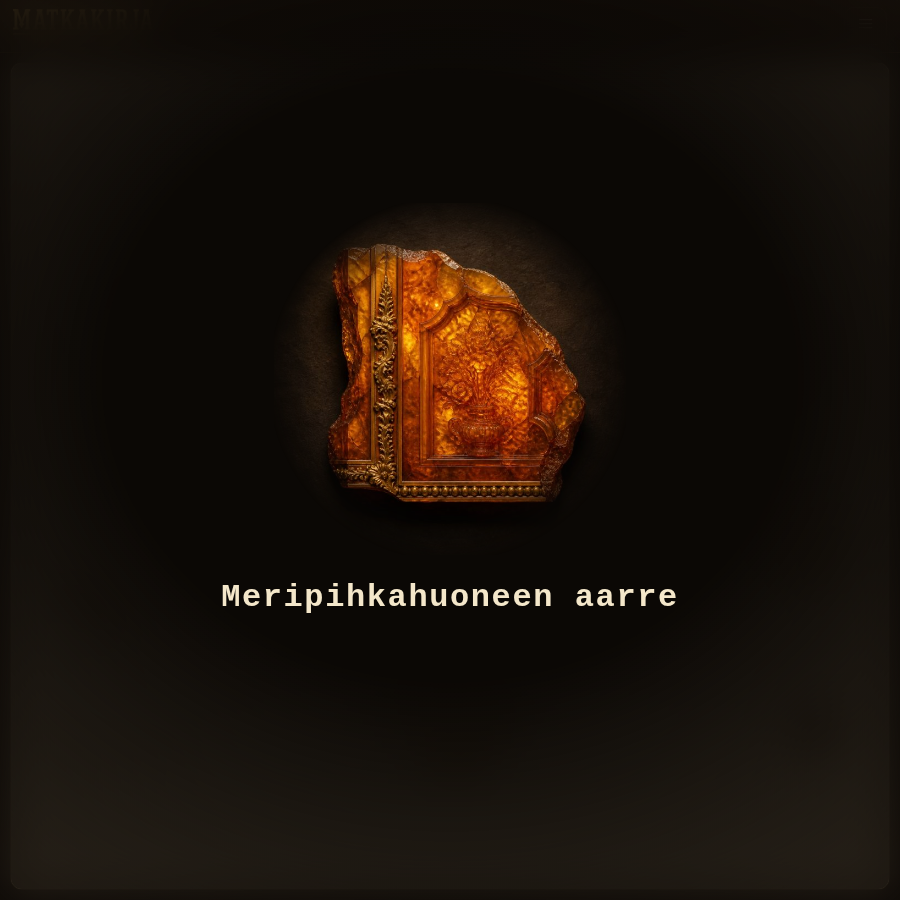
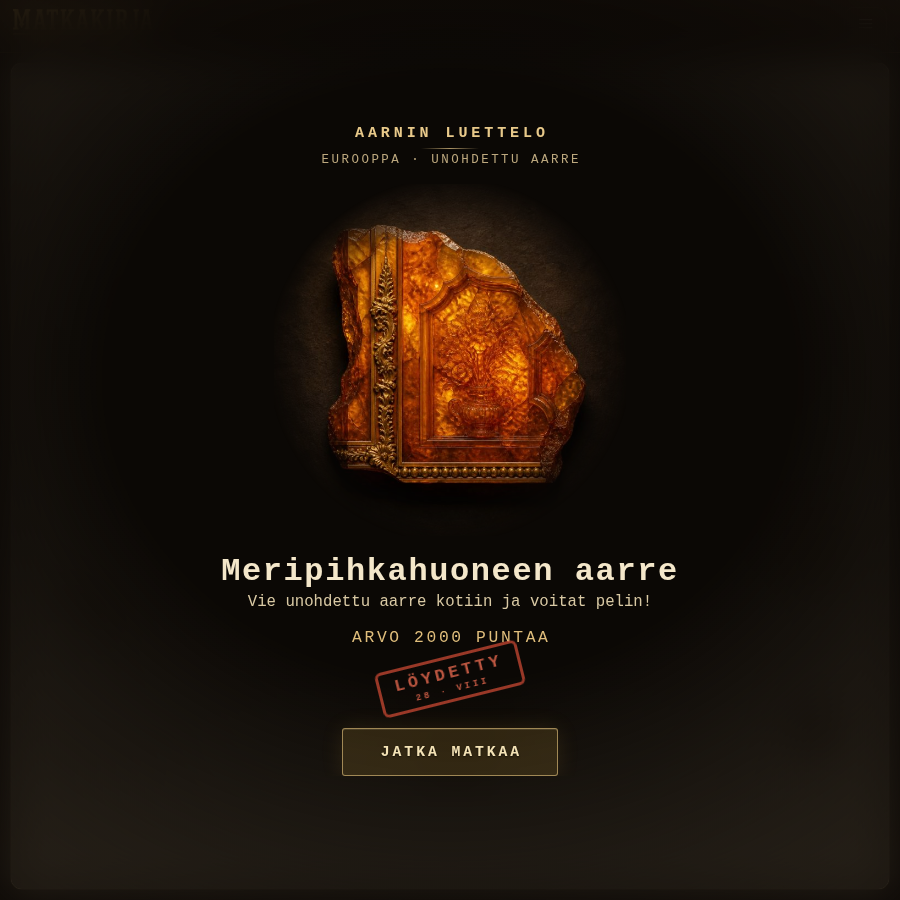
v1301: Tekstit tummaan aarrepaljastukseen
Omistajan tilaus 28.8.2026 ilta: "laita kaikki tekstit mukaan tuohon
aarteen esikatseluun". v1300 siirsi paaaarteen (star) paljastuksen
diplomista tummaan malliin, mutta Aarnin luettelon tekstit jaivat
samalla pois kortilta.

Tekstit palaavat samasta lisat-oliosta kuin diplomilla — mutta ULKOASU
on tumman mallin oma: kullansavyinen versaali suoraan mustan paalle, ei
pergamenttiarkkia, ei kaiverruskehysta eika vaalenevaa pohjaa, jotta
kuvan tumma tausta jatkuu saumatta overlayn mustaan (omistajan linjaus
samana iltana).

- js/ui.js playTokenReveal: lisat rakennetaan nyt ehdolla type ===
  'star' (ennen malli === 'diplomi', joka ei enaa koskaan toteutunut).
  Sisalto ennallaan: otsake "Aarnin luettelo", alaotsake
  "MANNER · UNOHDETTU AARRE", arvo STAR_PRIZE-vakiosta ja Loydetty-leima
  roomalaisin kuukausin. Kirkastuminen (overlay .kirkas) rajattu
  diplomiin — tumma kortti jaa mustaan.
- js/ui.js rakennaPaljastus: tumman mallin omat luokat .reveal-tunnus
  (otsake + alaotsake kuvan ylle) ja .reveal-loyto (arvorivi + leima
  tekstien alle). Diplomin absoluuttisesti kehyskuvaan ladotut
  .reveal-otsake / .reveal-alanauha jaavat koskematta.
- css/styles.css: tumman mallin tekstityylit. Leiman lyontianimaatio
  (leima-lyonti) sailyy; .reveal-leima.tumma vaihtaa sen gridin riviksi
  ja nostaa punaisen kirkkaammaksi mustaa vasten.
- tools/savukkeet/savuke-aarrekuva.mjs: diplomivartiot vaihtuivat tumman
  mallin tekstivartioiksi (otsake, alaotsake, arvo, leima ja niiden
[…]

diff --git a/js/ui.js b/js/ui.js
@@ -15098,13 +15098,22 @@ export class UI {
    *    kaiverruskehyksineen, kartussissa otsake, alanauhassa arvo ja
    *    punainen LÖYDETTY-leima. Aarnin luettelossa ovat kaanonin
    *    mukaan vain pääaarteet, joten paikallisaarre ei koskaan saa
-   *    diplomia.
+   *    diplomia. Malli jäi koodiin varalle (ks. playTokenReveal).
+   *
+   * LUETTELON TEKSTIT KUULUVAT MYÖS TUMMAAN MALLIIN (omistajan tilaus
+   * 28.8.2026 ilta: *"laita kaikki tekstit mukaan tuohon aarteen
+   * esikatseluun"*). Kun pääaarre siirtyi diplomista tummaan malliin,
+   * otsake, manner, arvo ja leima jäivät pois. Ne palaavat samasta
+   * `lisat`-oliosta, mutta tumman mallin omalla ulkoasulla:
+   * kullansävyinen versaali suoraan mustan päälle, EI pergamenttiarkkia
+   * eikä kehystä — kuvan tumma tausta jatkuu saumatta overlayn mustaan.
    *
    * @param {string|null} kuva kuvan polku (assets/…) tai null
    * @param {string} alt kuvan tekstivastine
    * @param {string} [malli] 'tumma' | 'paikallis' | 'diplomi'
    * @param {{otsake?: string, alaotsake?: string, alanauha?: string,
-   *   leima?: string, leimaPvm?: string}} [lisat] diplomin tekstit
+   *   leima?: string, leimaPvm?: string}} [lisat] luettelon tekstit
+   *   (diplomi ja tumman mallin pääaarre)
    * @returns {{overlay: HTMLElement, scene: HTMLElement, caption: HTMLElement,
    *   kuvaEl: HTMLImageElement|null, jatka: HTMLElement,
    *   pohja: HTMLElement, leima: HTMLElement|null}}
@@ -15156,6 +15165,25 @@ export class UI {
       pohja.appendChild(html('hr', 'reveal-jakoviiva'));
       scene.appendChild(pohja);
     }
+    /*
+     * LUETTELON NIMIÖ KUVAN YLLE (tumma malli). Diplomin `.reveal-otsake`
+     * ja `.reveal-alaotsake` on ladottu absoluuttisesti kehyskuvan
+     * kartussiin, joten tumma malli ei voi käyttää niitä: se saa omat
+     * luokkansa, jotka ovat scene-gridin tavallisia rivejä. Merkkiluokka
+     * `.luettelo` kertoo tyylille, että kortilla on nyt viisi riviä
+     * kolmen sijaan — rivivälit tiivistyvät sen mukaan.
+     */
+    if (malli === 'tumma' && (lisat.otsake || lisat.alaotsake)) {
+      scene.classList.add('luettelo');
+      const tunnus = html('div', 'reveal-tunnus');
+      if (lisat.otsake) {
+        tunnus.appendChild(html('div', 'reveal-tunnus-otsake', lisat.otsake));
+      }
+      if (lisat.alaotsake) {
+        tunnus.appendChild(html('div', 'reveal-tunnus-alaotsake', lisat.alaotsake));
+      }
+      scene.appendChild(tunnus);
+    }
     if (kuvaEl) pohja.appendChild(kuvaEl);
     const caption = html('div', 'reveal-caption');
     pohja.appendChild(caption);
@@ -15168,6 +15196,22 @@ export class UI {
         leima.appendChild(html('small', '', lisat.leimaPvm ?? ''));
         pohja.appendChild(leima);
       }
+    } else if (malli === 'tumma' && (lisat.alanauha || lisat.leima)) {
+      /*
+       * ARVO JA LEIMA TEKSTIEN ALLE omana jalkanaan. Jalka on caption-
+       * lohkon sisarus, joten se tulee esiin samalla kahvalla kuin
+       * tekstit (`.reveal-caption.shown ~ .reveal-loyto`) eikä JS
+       * tarvitse omaa luokkaansa. Leima jää silti pimeään, kunnes
+       * playTokenReveal lyö sen (`.lyoty`).
+       */
+      const jalka = html('div', 'reveal-loyto');
+      if (lisat.alanauha) jalka.appendChild(html('div', 'reveal-arvo', lisat.alanauha));
+      if (lisat.leima) {
+        leima = html('div', 'reveal-leima tumma', lisat.leima);
+        leima.appendChild(html('small', '', lisat.leimaPvm ?? ''));
+        jalka.appendChild(leima);
+      }
+      pohja.appendChild(jalka);
     }
     overlay.appendChild(scene);
     /*
@@ -15267,7 +15311,20 @@ export class UI {
     const malli = kuva?.startsWith('assets/aarteet/paikallis/')
       ? 'paikallis' : 'tumma';
     let lisat = {};
-    if (malli === 'diplomi') {
+    /*
+     * LUETTELON TEKSTIT SEURASIVAT PÄÄAARRETTA TUMMAAN MALLIIN
+     * (omistajan tilaus 28.8.2026 ilta: *"laita kaikki tekstit mukaan
+     * tuohon aarteen esikatseluun"*). Ennen tämä ehto oli
+     * `malli === 'diplomi'`, joten kun pääaarre siirtyi tummaan,
+     * otsake, manner, arvo ja leima katosivat kortilta kokonaan.
+     * Sisältö on sama kuin diplomilla — ulkoasusta vastaa
+     * rakennaPaljastus ja css/styles.css (tumman mallin omat luokat).
+     *
+     * Vain pääaarre: Aarnin luettelossa ovat kaanonin mukaan vain
+     * unohdetut aarteet, joten nimiötä ei saa mantereen aarre eikä
+     * paikallisaarre.
+     */
+    if (type === 'star') {
       const manner = this.game.quiz?.cityId
         ? this.game.mannerOf(this.game.quiz.cityId) : null;
       const mannerNimi = MANNER_NIMET[manner]?.nimi;
@@ -15351,7 +15408,9 @@ export class UI {
       kuvaEl?.classList.add('shown');
       caption.classList.add('shown');
       leima?.classList.add('lyoty');
-      overlay.classList.add('kirkas');
+      // Kirkastuminen kuuluu vain diplomille: tumman mallin pääaarre
+      // pysyy mustassa, jotta kuvan tausta jatkuu saumatta overlayhin.
+      if (malli === 'diplomi') overlay.classList.add('kirkas');
       sfx.play(treasureSound(type));
       if (hihkaisu) this.soitaHihkaisu(hihkaisu);
       await odota(900);
@@ -15369,18 +15428,22 @@ export class UI {
       caption.classList.add('shown');
       if (leima) {
         /*
-         * LEIMAN LYÖNTI JA KIRKASTUMINEN (omistajan pohjapäätös
-         * 28.8.2026): diplomi luetaan hetki tummassa valokeilassa,
-         * LÖYDETTY-leima lyödään siihen, ja vasta leiman jälkeen
-         * pohja kirkastuu vaaleaan lopputilaan. Napautus ohittaa
-         * odotukset muttei animaatioita — kortti jää silloin heti
-         * valmiiseen vaaleaan tilaan.
+         * LEIMAN LYÖNTI (omistajan pohjapäätös 28.8.2026): kortti
+         * luetaan hetki, ja vasta sitten LÖYDETTY-leima lyödään sen
+         * jalkaan. Napautus ohittaa odotukset muttei animaatioita.
+         *
+         * KIRKASTUMINEN ON DIPLOMIN OMA (28.8.2026 ilta): tumman
+         * mallin pääaarre jää mustaan, koska juuri siitä saumasta
+         * omistaja piti — vaalea valokerros nousisi kuvan tumman
+         * taustan alle ja tekisi siitä laatikon.
          */
         await odota(700);
         leima.classList.add('lyoty');
         natiiviTarise('juhla');
-        await odota(650);
-        overlay.classList.add('kirkas');
+        if (malli === 'diplomi') {
+          await odota(650);
+          overlay.classList.add('kirkas');
+        }
       }
       await this.odotaPaljastuksenSulku(overlay, jatka);
       overlay.classList.add('leaving');

diff --git a/css/styles.css b/css/styles.css
@@ -7545,6 +7545,119 @@ body.flight-active .fact-card {
   color: #cbb992;
 }
 
+/* --- pääaarteen luettelotekstit tummassa mallissa (28.8.2026 ilta) --
+ *
+ * Omistajan tilaus: *"laita kaikki tekstit mukaan tuohon aarteen
+ * esikatseluun"*. Kun pääaarre siirtyi diplomista tummaan malliin,
+ * Aarnin luettelon otsake, manner, arvorivi ja LÖYDETTY-leima jäivät
+ * pois. Ne palaavat tähän TUMMAN MALLIN OMANA ulkoasuna: kullansävyistä
+ * versaalia suoraan mustan päälle. EI pergamenttiarkkia, EI
+ * kaiverruskehystä ja EI vaalenevaa pohjaa — kuvan tumma tausta jatkuu
+ * saumatta overlayn mustaan, mikä oli koko siirron syy.
+ *
+ * Diplomin `.reveal-otsake`, `.reveal-alaotsake` ja `.reveal-alanauha`
+ * on ladottu absoluuttisesti kehyskuvan kartussiin ja nauhaan, joten
+ * tumma malli ei voi käyttää niitä: sillä on omat luokkansa, jotka ovat
+ * scene-gridin tavallisia rivejä.
+ */
+
+/* Nimiö ja jalka tuovat kortille viisi riviä kolmen sijaan; scenen
+ * 1.5 rem:n väli venyttäisi pinon matalalla näytöllä vieritykseen.
+ * Merkkiluokan antaa rakennaPaljastus. */
+.reveal-scene.luettelo { gap: 1.05rem; }
+
+.reveal-tunnus {
+  display: grid;
+  justify-items: center;
+  gap: 0.3rem;
+  text-align: center;
+  /* Nimiö nousee kuvan mukana: tummassa mallissa pohja === scene, joten
+     sama `.shown` kantaa molemmat. */
+  opacity: 0;
+  transform: translateY(-8px);
+  transition: opacity 0.9s ease-out, transform 0.9s ease-out;
+}
+
+.reveal-scene.shown .reveal-tunnus { opacity: 1; transform: none; }
+
+.reveal-tunnus-otsake {
+  font-family: var(--font-type);
+  font-weight: 700;
+  font-size: clamp(0.74rem, 2.6vmin, 0.94rem);
+  letter-spacing: 0.26em;
+  /* Versaalin viimeinen välike työntäisi rivin vasemmalle ilman tätä. */
+  text-indent: 0.26em;
+  text-transform: uppercase;
+  color: #e8c98a;
+}
+
+/* Ohut kultaviiva otsakkeen alle — sama ele kuin diplomin
+ * jakoviivalla, mutta piirrettynä kirjaimeen eikä arkille. */
+.reveal-tunnus-otsake::after {
+  content: '';
+  display: block;
+  width: 3.6rem;
+  height: 1px;
+  margin: 0.36rem auto 0;
+  background: linear-gradient(
+    90deg,
+    rgba(232, 201, 138, 0) 0%,
+    rgba(232, 201, 138, 0.72) 50%,
+    rgba(232, 201, 138, 0) 100%
+  );
+}
+
+.reveal-tunnus-alaotsake {
+  font-family: var(--font-type);
+  font-size: clamp(0.6rem, 2.2vmin, 0.78rem);
+  letter-spacing: 0.2em;
+  text-indent: 0.2em;
+  color: #bda87e;
+}
+
+/*
+ * JALKA: arvorivi ja leima tekstien alle. Jalka on caption-lohkon
+ * sisarus, joten yleinen sisarvalitsin tuo sen esiin samalla kahvalla
+ * kuin tekstit — JS ei tarvitse omaa luokkaa. Leima jää silti pimeään
+ * jalan sisällä, kunnes playTokenReveal lyö sen.
+ */
+.reveal-loyto {
+  display: grid;
+  justify-items: center;
+  gap: 0.55rem;
+  opacity: 0;
+  transform: translateY(10px);
+  transition: opacity 0.35s ease-out, transform 0.35s ease-out;
+}
+
+.reveal-caption.shown ~ .reveal-loyto { opacity: 1; transform: none; }
+
+.reveal-arvo {
+  font-family: var(--font-type);
+  font-size: clamp(0.84rem, 2.8vmin, 1.02rem);
+  letter-spacing: 0.16em;
+  text-indent: 0.16em;
+  text-transform: uppercase;
+  color: #e0be7c;
+}
+
+/*
+ * LÖYDETTY-LEIMA MUSTALLA POHJALLA: sama kumileima kuin diplomilla
+ * (epätasainen painauma maskissa, sama lyöntianimaatio), mutta gridin
+ * rivinä eikä arkin kulmassa — ja punainen nostettuna kirkkaammaksi,
+ * koska diplomin musteenpunainen katoaisi mustaan.
+ */
+.reveal-leima.tumma {
+  position: static;
+  color: #e2664c;
+  border-color: #b8412e;
+  font-size: clamp(0.8rem, 2.9vmin, 1.06rem);
+  /* Kevyt hehku irrottaa leiman mustasta ilman että siitä tulee
+     laatikko — sama kaava kuin Jatka matkaa -napin kultakajossa. */
+  text-shadow: 0 1px 3px rgba(0, 0, 0, 0.7);
+  box-shadow: 0 0 20px rgba(184, 65, 46, 0.16);
+}
+
 /* --- vaaleat paljastusmallit (leiskapäätökset 28.8.2026) ------------
  *
  * Yhteinen tausta molemmille: pelin näkymä kuultaa purppuraan

diff --git a/js/muutokset.js b/js/muutokset.js
@@ -13,6 +13,7 @@
  * Vanhat rivit eivät muutu — loki on historia, ei kuvaus nykytilasta.
  */
 export const MUUTOKSET = [
+  { v: 1301, teksti: 'Tekstit tummaan aarrepaljastukseen' },
   { v: 1300, teksti: 'Paaaarteet tummina, uudet ihme- ja nostokuvat' },
   { v: 1299, teksti: 'Uudet luennat: avaus, lento, Venetsia ja Edinburgh' },
   { v: 1298, teksti: 'Takynostojen portti auki nelossa kaupungissa' },

diff --git a/js/main.js b/js/main.js
@@ -98,7 +98,7 @@ natiiviSeuraa(STAMP_KEY);
 // Vanha maailma korvattiin maailmankartalla; tallennukset siirretään.
 const VANHA_LAUTA = 'vanhamaailma';
 const UUSI_LAUTA = 'maailmankartta';
-const APP_VERSION = '2026-08-09.1300';
+const APP_VERSION = '2026-08-09.1301';
 
 const rulesDialog = document.getElementById('rules-dialog');
 const winnerDialog = document.getElementById('winner-dialog');

diff --git a/sw.js b/sw.js
@@ -1,5 +1,5 @@
 // Palvelutyöntekijä: pelin tiedostot välimuistiin, jotta sovellus toimii myös offline.
-const CACHE = 'matkakirja-2026-08-09.1300';
+const CACHE = 'matkakirja-2026-08-09.1301';
 const SHELL = [
   './',
   './index.html',
